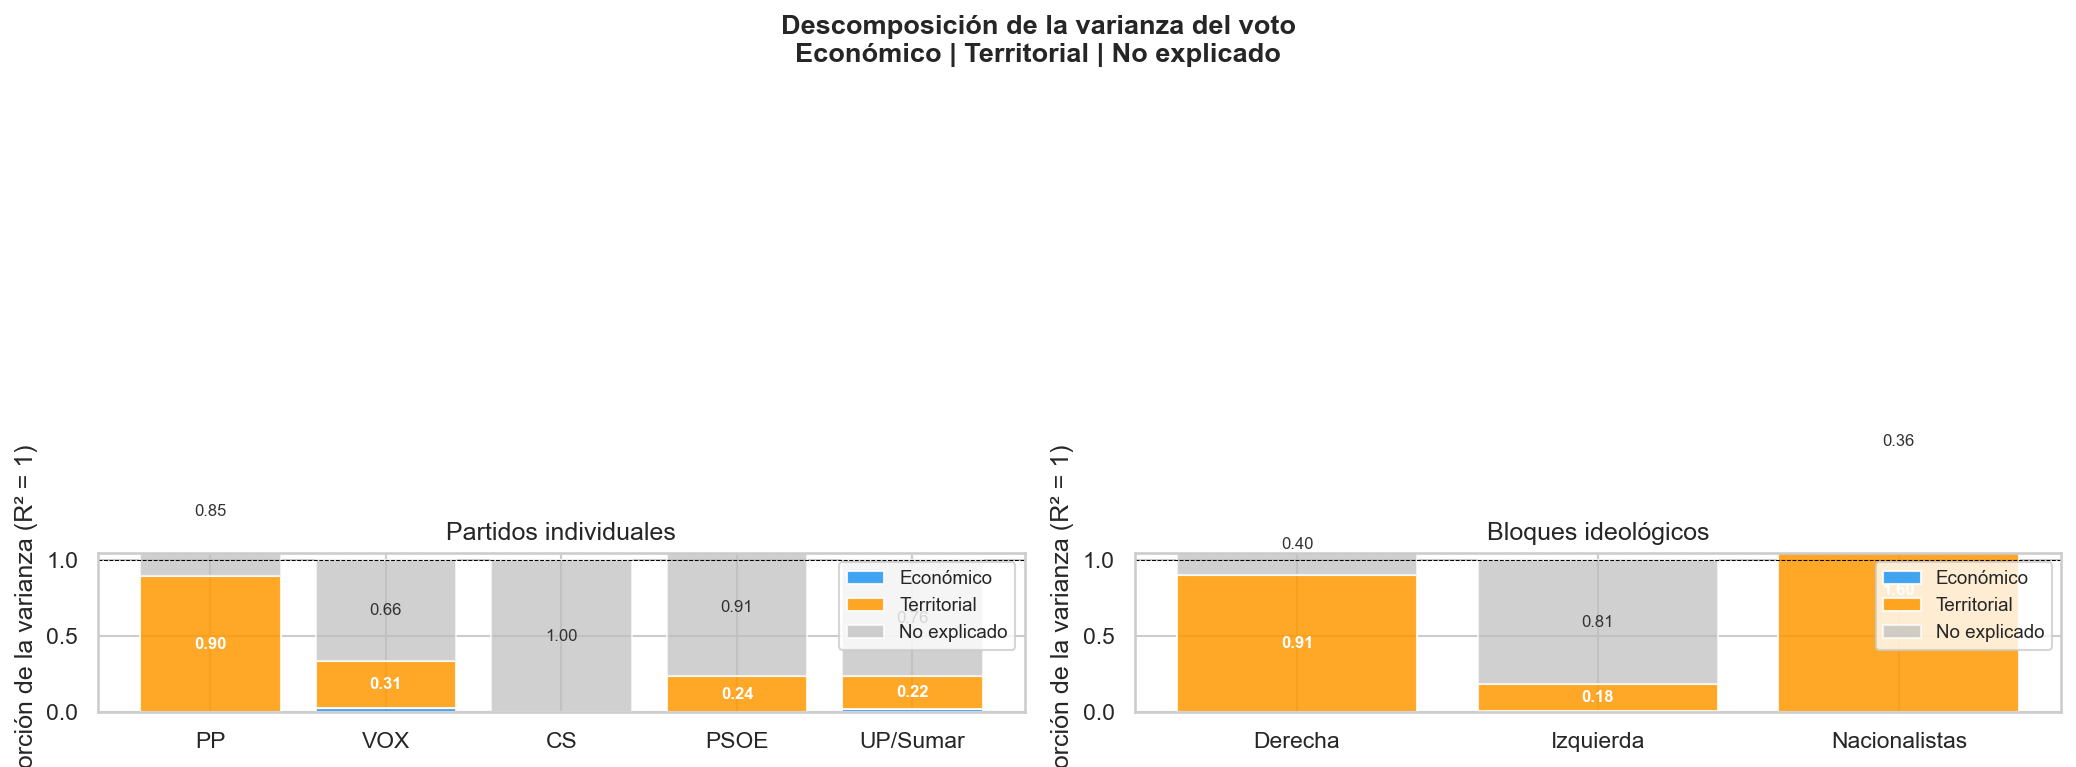
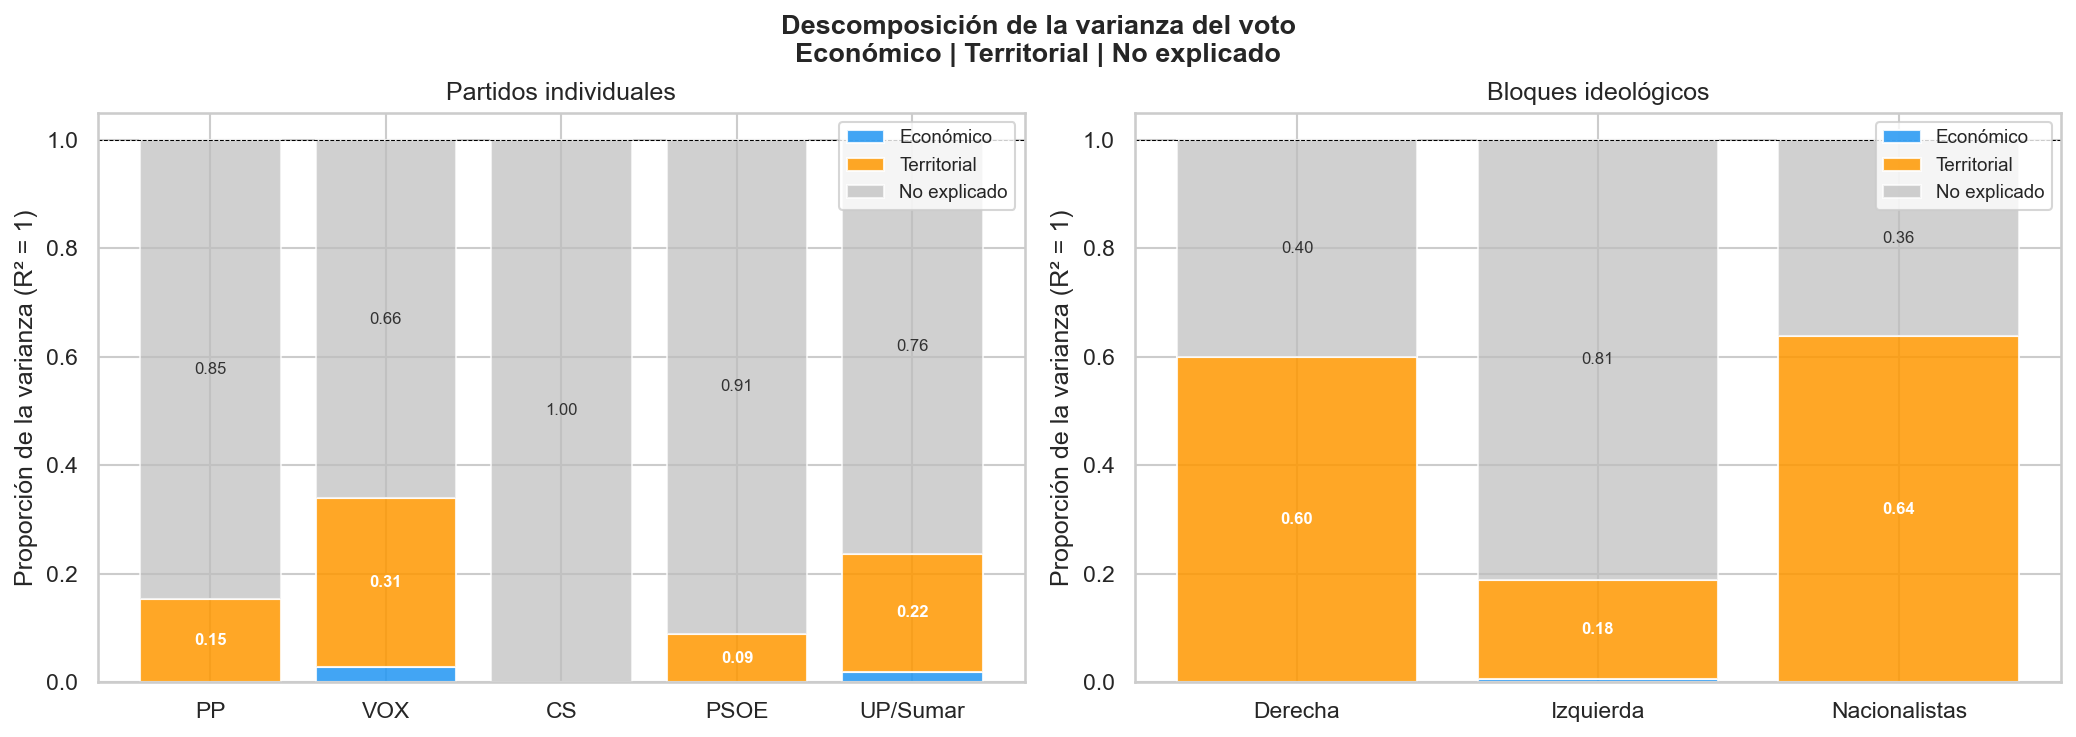
sin error en la ultima grafica

diff --git a/analisis/descomposicion_r2.py b/analisis/descomposicion_r2.py
@@ -87,9 +87,13 @@ def calcular_descomposicion(
 
 
 def _componentes(r_eco: float, r_tot: float) -> tuple:
+    # Cuando r_eco < 0 las variables económicas predicen al revés;
+    # todo el poder predictivo se atribuye a la provincia (terr = r_tot).
+    # Así eco + terr + resid = 1 siempre y las barras no se salen de 1.
+    r_tot_clamped = max(r_tot, 0.0)
     eco   = max(r_eco, 0.0)
-    terr  = max(0.0, r_tot - r_eco)
-    resid = 1.0 - max(r_tot, 0.0)
+    terr  = r_tot_clamped - eco
+    resid = 1.0 - r_tot_clamped
     return eco, terr, resid
 
 
@@ -152,8 +156,9 @@ def visualizar_descomposicion(
                         fontsize=8, color='#333')
 
     plt.suptitle('Descomposición de la varianza del voto\nEconómico | Territorial | No explicado',
-                 fontsize=13, fontweight='bold', y=1.02)
+                 fontsize=13, fontweight='bold')
     plt.tight_layout()
+    plt.subplots_adjust(top=0.85)
     if guardar:
         os.makedirs(CARPETA_IMAGENES, exist_ok=True)
         plt.savefig(f'{CARPETA_IMAGENES}/capacidad_explicativa.png',
